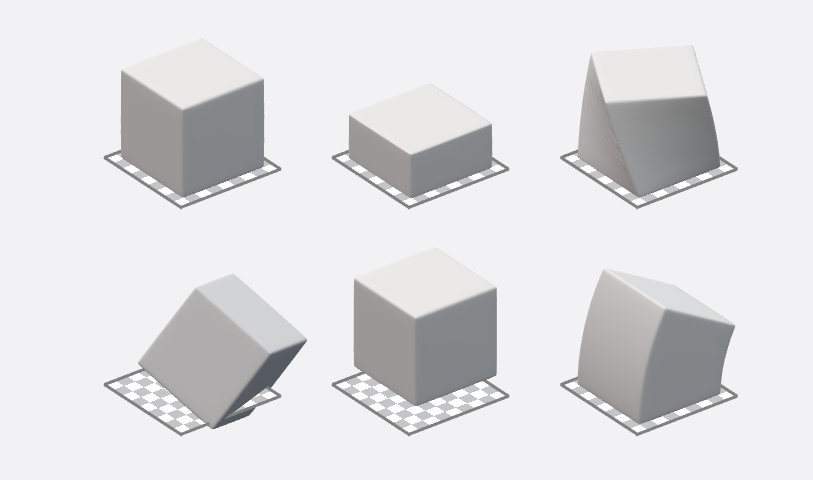
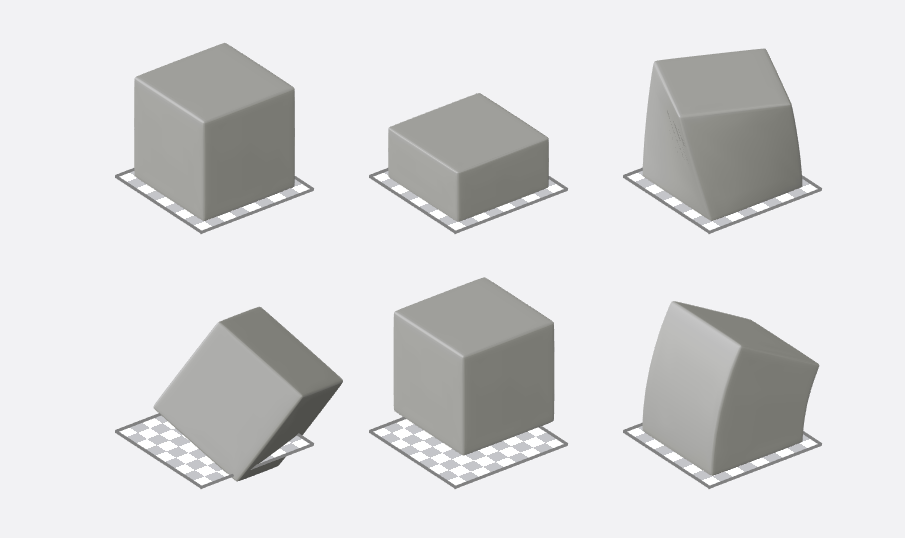
push

diff --git a/scripts/gmdl/Blender/preview_blender.m b/scripts/gmdl/Blender/preview_blender.m
@@ -8,7 +8,7 @@ obj.bake().render().update;
 obj.ground();
 
 %% transform
-Blender(obj,'Twist',{'z',30});
+Blender(obj,'Twist',{'z',25});
     subplot(2,3,3); obj.bake().render(); obj.ground();
 
 Blender(obj.reset(),'Scale',{'z',0.5}); 
